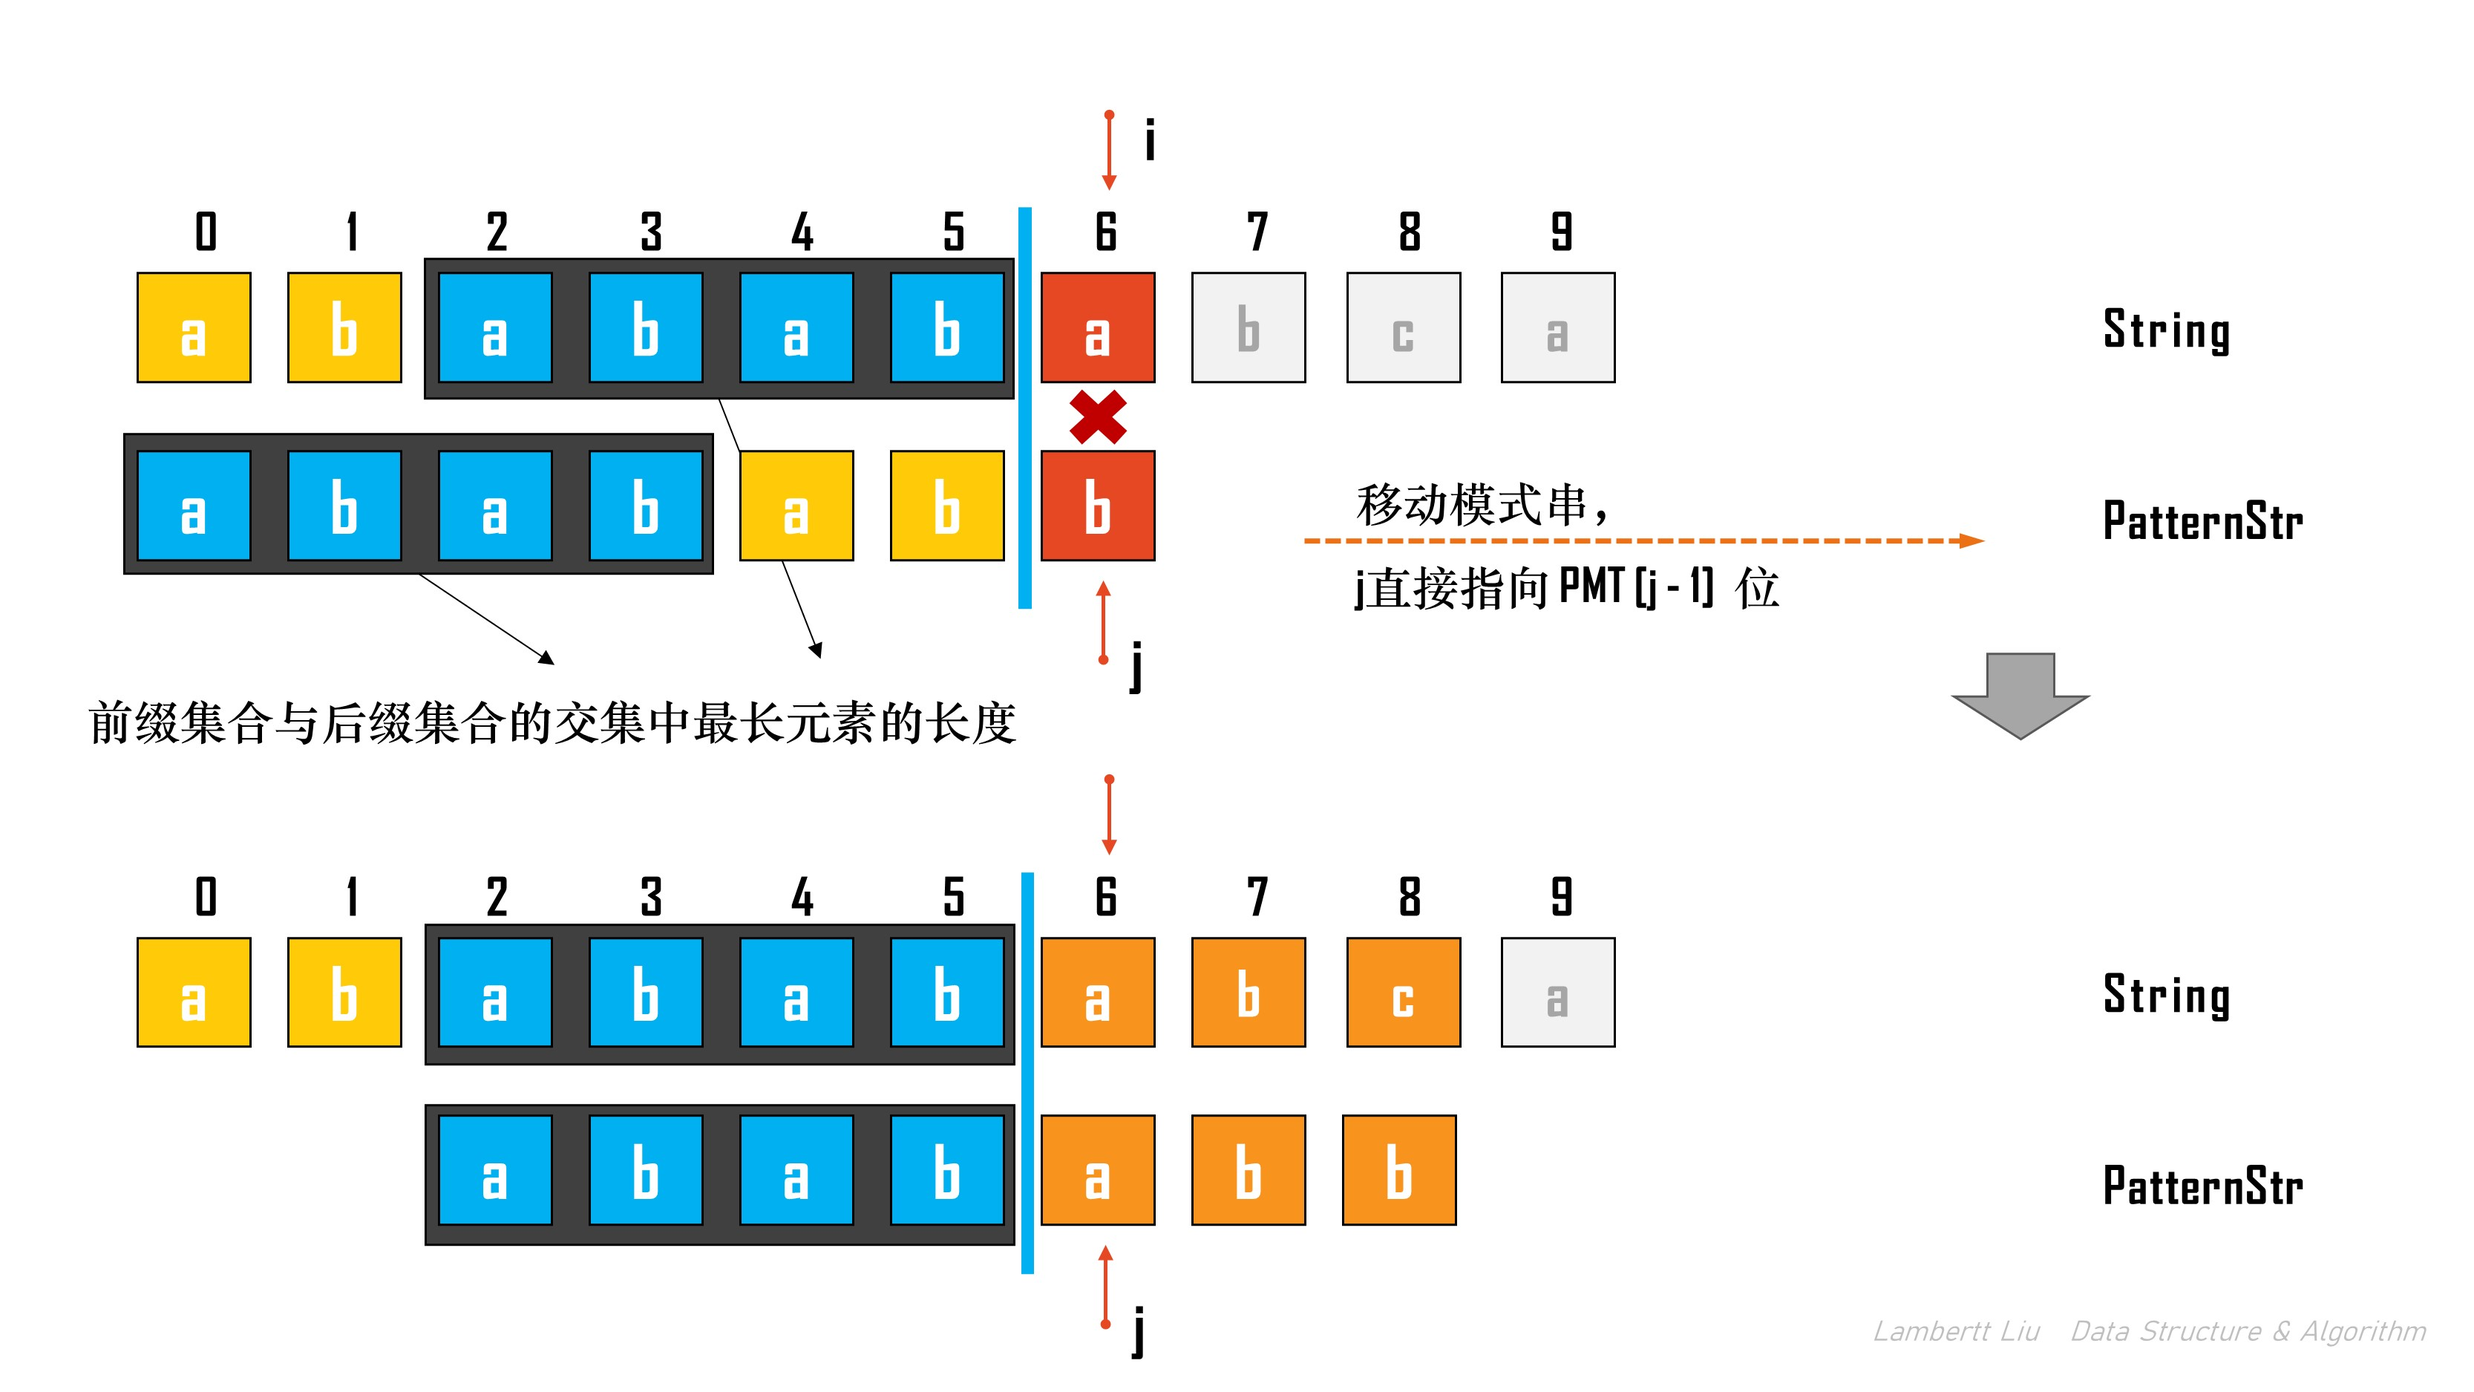
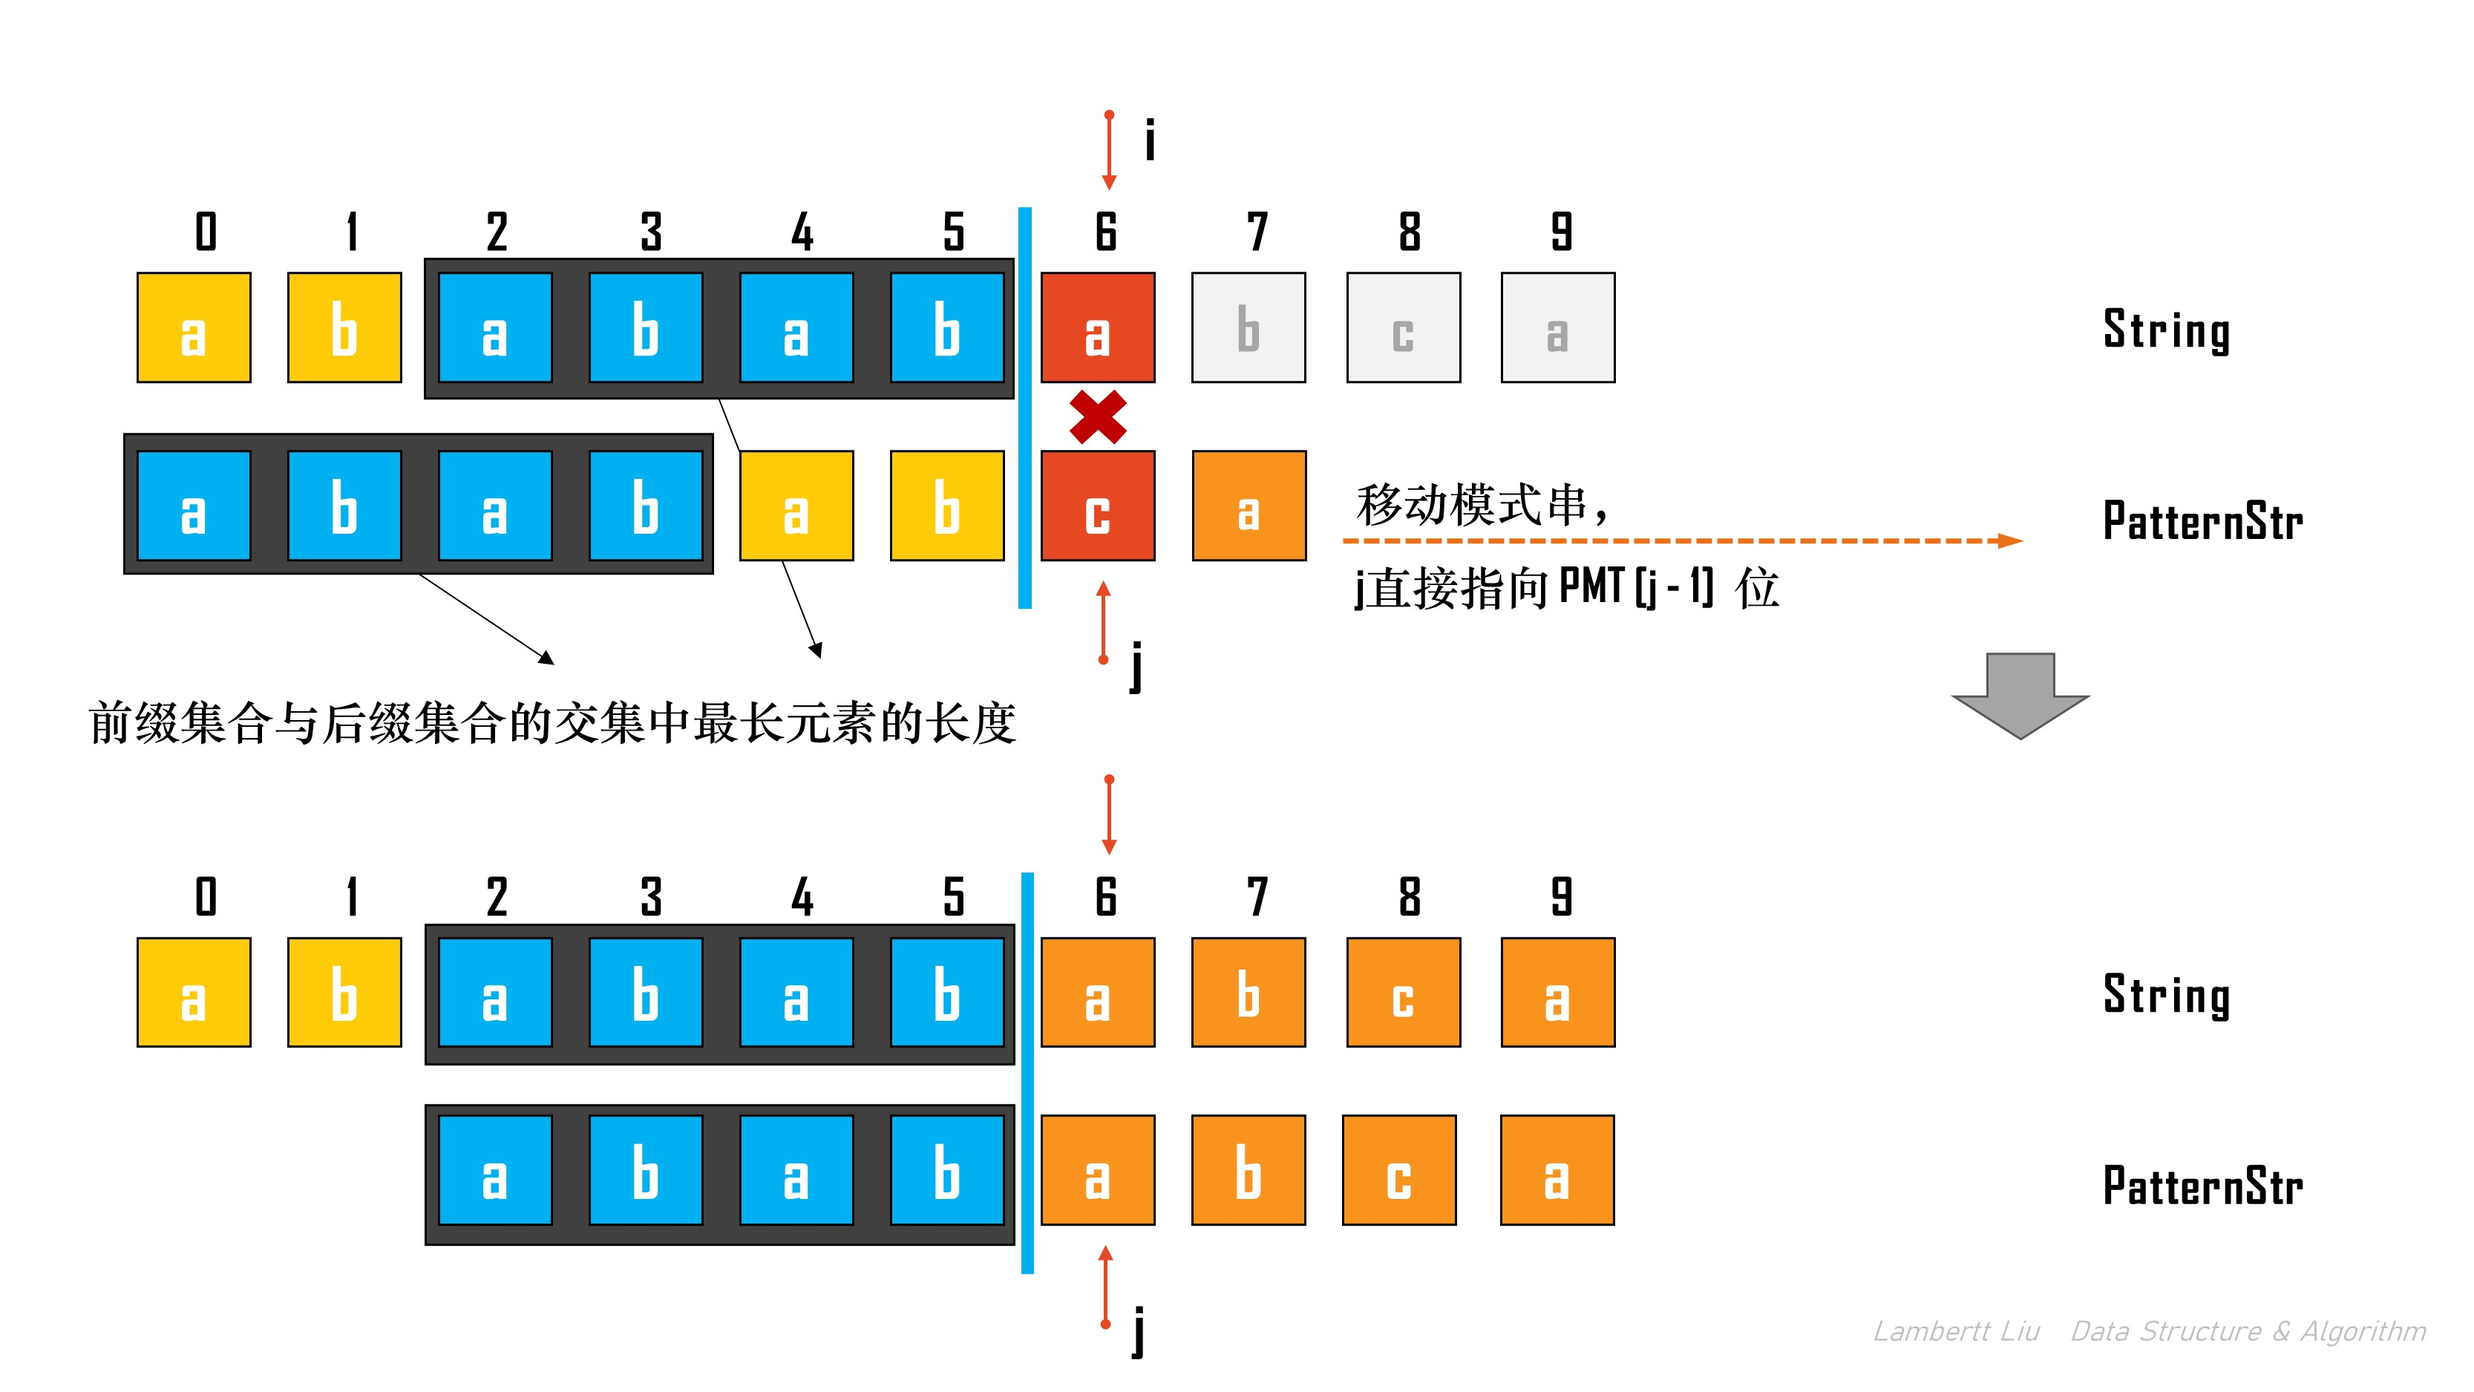
【修改说明】添加字符串模式匹配代码

Changed region(s): [[0.5929, 0.6496, 0.6553, 0.8971], [0.468, 0.3093, 0.5305, 0.4021], [0.7801, 0.3712, 0.8113, 0.4021]]

diff --git a/【DSA】数据结构与算法（C语言版本）/src/string/pattern_matching_kmp.c b/【DSA】数据结构与算法（C语言版本）/src/string/pattern_matching_kmp.c
@@ -1,0 +1,72 @@
+#include <stdio.h>
+#include <string.h>
+
+int next[8] = {0};
+
+void GetNext(char *pattern, int *next)
+{
+    next[0] = -1;
+    int i = 0, j = -1;
+
+    while (i < (int)strlen(pattern))
+    {
+        if (j == -1 || pattern[i] == pattern[j])
+        {
+            ++i;
+            ++j;
+            next[i] = j;
+        }    
+        else
+            j = next[j];
+    }
+}
+
+int Index_KMP(char *main, int mainLen, char *pattern, int patLen)
+{
+    int pStr = 0, pPat = 0;
+    int matchCnt = 0;
+    
+    // 必须满足指针小于字符串长度，否则比较无意义。
+    while (pStr < mainLen && pPat < patLen) {
+        // 如果有字符相等，继续比较后续字符串
+        if (pPat == -1 ||main[pStr] == pattern[pPat]) {
+            ++pStr;
+            ++pPat;  
+        } else {
+            pPat = next[pPat];
+        }
+        matchCnt++;       
+    }
+
+    printf("matching counts = %d\n", matchCnt);         // 11次
+
+    // 匹配时，满足等于strlen
+    if (pPat >= patLen) {
+        return pStr - patLen;
+    } else {
+        return 0;
+    }
+}
+
+
+int main()
+{
+    char mainStr[] = "ababababca";
+    char patternStr[] = "abababca";
+
+    printf("str length of main Str [%s] = %d\n",mainStr, strlen(mainStr));
+    printf("str length of patten Str [%s] = %d\n",patternStr, strlen(patternStr));
+    GetNext(patternStr, next);
+    for (size_t i = 0; i < 8; i++)
+    {
+        printf("next[%d] = %d\n", i, next[i]);
+    }
+    
+    int index = Index_KMP(mainStr,strlen(mainStr), patternStr,strlen(patternStr));
+    
+    /* 预期匹配位置：2 
+    index      0   1   2   3   4   5   6   7   8   9
+    main       a - b - a - b - a - b - a - b - c - a
+    pattern            a - b - a - b - a - b - c - a   */
+    printf("Locate pattern matching :index [%d].\n", index);
+}

diff --git a/【DSA】数据结构与算法（C语言版本）/src/string/pattern_matching_bf.c b/【DSA】数据结构与算法（C语言版本）/src/string/pattern_matching_bf.c
@@ -1,0 +1,52 @@
+#include <stdio.h>
+#include <string.h>
+
+
+int Index_BF(char *main, int mainLen, char *pattern, int patLen)
+{
+    int pStr = 0, pPat = 0;
+    int matchCnt = 0;
+    
+    // 必须满足指针小于字符串长度，否则比较无意义。
+    while (pStr < mainLen && pPat < patLen) {
+        // 如果有字符相等，继续比较后续字符串
+        if (main[pStr] == pattern[pPat]) {
+            ++pStr;
+            ++pPat;  
+        } else {
+            /*  step = pPat - 0 = pPat = pStr - PStrOrigin,
+                pStrOrigin = pStr - pPat
+                pStrNext = pStr - pPat + 1
+            */
+            pStr = pStr - pPat + 1;
+            pPat = 0;   // 失败从0位置开始
+        }
+        matchCnt++;       
+    }
+
+    printf("matching counts = %d\n", matchCnt);     // 16次
+
+    // 匹配时，满足等于strlen
+    if (pPat >= patLen) {
+        return pStr - patLen;
+    } else {
+        return 0;
+    }
+}
+
+int main()
+{
+    char mainStr[] = "ababababca";
+    char patternStr[] = "abababca";
+
+    printf("str length of main Str [%s] = %d\n",mainStr, strlen(mainStr));
+    printf("str length of patten Str [%s] = %d\n",patternStr, strlen(patternStr));
+
+    int index = Index_BF(mainStr,strlen(mainStr), patternStr,strlen(patternStr));
+    
+    /* 预期匹配位置：2 
+    index      0   1   2   3   4   5   6   7   8   9
+    main       a - b - a - b - a - b - a - b - c - a
+    pattern            a - b - a - b - a - b - c - a   */
+    printf("Locate pattern matching :index [%d].\n", index);
+}

diff --git a/README.md b/README.md
@@ -1,6 +1,5 @@
-# CS-Basic-SelfLearning-408
 
-## 文档简介
+# 文档简介
 💡 这是作者本人自学计算机基础课程的学习记录，主要包含计算机基础四大件，即大家常说的“408”。  
 🚩 学习过程开启于2022年9月初，中间断断续续，一直持续更新记录。  
 ✅ 可以为自学计算机课程者，提供一份学习路径参考。
@@ -23,9 +22,9 @@
 
 -------------------------------------------------------------------
 
-## 数据结构和算法 DataStructure & Algorithm (C语言实现) 
+# 数据结构和算法 DataStructure & Algorithm (C语言实现) 
 
-数据结构和算法，是计算机入门的基础的重中之重，是在完成一门编程语言（例如C语言）后可以掌握的基础课程。由于C语言是一门语法稍微简单，并且多数使用作为编程入门的语言。因此，会作为数据结构和算法实现的语言之一。
+数据结构和算法，是计算机入门的基础的重中之重，是在完成一门编程语言（例如C语言）后可以掌握的基础课程。由于C语言是一门语法稍微简单，并且多数使用作为编程入门的语言。因此，本内容采用C语言作为数据结构和算法实现的语言。
 
 **前置需求**：
 - C语言中基本数据类型、表达式、变量；
@@ -55,10 +54,10 @@
 - [ ] [18 图与图的存储方式](【DSA】数据结构与算法（C语言版本）/18%20图与图的存储方式.md)
 - [ ] [19 图的基本操作](【DSA】数据结构与算法（C语言版本）/19%20图的基本操作.md)
 - [ ] [20 图的最短路径问题](【DSA】数据结构与算法（C语言版本）/20%20图的最短路径问题.md)
-- [ ] [21 拓扑排序、关键路径](【DSA】数据结构与算法（C语言版本）/21%20拓扑排序、关键路径.md)
+- [ ] [21 图的拓扑排序、关键路径](【DSA】数据结构与算法（C语言版本）/21%20图的拓扑排序、关键路径.md)
 - [ ] [22 顺序查找、二分查找](【DSA】数据结构与算法（C语言版本）/22%20顺序查找、二分查找.md)
-- [ ] [23 分块查找、散列查找](【DSA】数据结构与算法（C语言版本）/23%20分块查找、散列查找.md)
-- [ ] [24 uthash库的哈希实现](【DSA】数据结构与算法（C语言版本）/24%20uthash库的哈希实现.md)
+- [ ] [23 分块查找、散列查找（哈希查找）](【DSA】数据结构与算法（C语言版本）/23%20分块查找、散列查找（哈希查找）.md)
+- [ ] [24 C语言的哈希实现 uthash库](【DSA】数据结构与算法（C语言版本）/24%20C语言的哈希实现%20uthash库.md)
 - [ ] [25 插入排序、希尔排序](【DSA】数据结构与算法（C语言版本）/25%20插入排序、希尔排序.md)
 - [ ] [26 快速排序、简单选择排序](【DSA】数据结构与算法（C语言版本）/26%20快速排序、简单选择排序.md)
 - [ ] [27 冒泡排序](【DSA】数据结构与算法（C语言版本）/27%20冒泡排序.md)
@@ -67,9 +66,10 @@
 - [ ] [30 外部排序、败者树](【DSA】数据结构与算法（C语言版本）/30%20外部排序、败者树.md)
 
 
-🔗课程链接：[数据结构_王道考研_哔哩哔哩_bilibili](https://www.bilibili.com/video/BV1b7411N798?p=2&vd_source=a7f0d42b9cbd9285a1aa3d740ec1b3af)
-
-## 操作系统 Operating System
+🔗课程链接：[数据结构_王道_哔哩哔哩_bilibili](https://www.bilibili.com/video/BV1b7411N798?p=2&vd_source=a7f0d42b9cbd9285a1aa3d740ec1b3af)
+ 
+# 操作系统 Operating System
+**操作系统是**控制管理计算机系统的硬软件，分配调度资源的**系统软件**，向上为上层软件提供接口，向下控制管理系统资源，是整个应用软件层和硬件层的中间过渡。操作系统课程分为四个部分：进程管理、内存管理、文件管理、I/O管理。
 
 **具体章节**：
 - [操作系统索引](【OS】操作系统/操作系统索引.md)
@@ -81,7 +81,30 @@
 - [ ] [07 文件管理](【OS】操作系统/07%20文件管理.md)
 - [ ] [08 IO 管理](【OS】操作系统/08%20IO%20管理.md)
 
+🔗课程链接：[操作系统_王道 哔哩哔哩_bilibili](https://www.bilibili.com/video/BV1YE411D7nH/?spm_id_from=333.337.search-card.all.click&vd_source=a7f0d42b9cbd9285a1aa3d740ec1b3af)
+
 -------------------------------------------------------------------
+
+
+# 计算机网络 Computer Network
+
+具体章节：
+
+
+🔗课程链接：
+- [计算机网络微课堂_湖科大教书匠_哔哩哔哩_bilibili](https://www.bilibili.com/video/BV1c4411d7jb/?spm_id_from=333.337.search-card.all.click&vd_source=a7f0d42b9cbd9285a1aa3d740ec1b3af)
+- [计算机网络_王道_哔哩哔哩_bilibili](https://www.bilibili.com/video/BV19E411D78Q/?spm_id_from=333.337.search-card.all.click)
+
+-------------------------------------------------------------------
+
+# 计算机组成原理 Principles of Computer Composition
+
+具体章节：
+
+🔗课程链接：
+
+-------------------------------------------------------------------
+
 
 
 **作者简介**：  

diff --git a/【DSA】数据结构与算法（C语言版本）/数据结构索引.md b/【DSA】数据结构与算法（C语言版本）/数据结构索引.md
@@ -29,15 +29,24 @@
 
 # Ch06. 图
 [18 图与图的存储方式](18%20图与图的存储方式.md)  
+[19 图的基本操作](19%20图的基本操作.md)
+[20 图的最短路径问题](20%20图的最短路径问题.md)
+[21 图的拓扑排序、关键路径](21%20图的拓扑排序、关键路径.md)
 
 # Ch07. 查找
 [22 顺序查找、二分查找](22%20顺序查找、二分查找.md)  
-[24 uthash库的哈希实现](24%20uthash库的哈希实现.md)  
+[23 分块查找、散列查找（哈希查找）](23%20分块查找、散列查找（哈希查找）.md)
+[24 C语言的哈希实现 uthash库](24%20C语言的哈希实现%20uthash库.md)  
 
 # Ch08. 排序
 [25 插入排序、希尔排序](25%20插入排序、希尔排序.md)  
 [26 快速排序、简单选择排序](26%20快速排序、简单选择排序.md)
+[27 冒泡排序](27%20冒泡排序.md)
+[28 堆与堆排序](28%20堆与堆排序.md)
+[29 归并排序、基数排序](29%20归并排序、基数排序.md)
+[30 外部排序、败者树](30%20外部排序、败者树.md)
 
 # Ch09.常用算法
-[XX 常用算法 - 回溯](XX%20常用算法%20-%20回溯.md)  
+[XX 常用算法 - 回溯法](XX%20常用算法%20-%20回溯法.md)  
+[XX 常用算法 - 动态规划](XX%20常用算法%20-%20动态规划.md)
 

diff --git a/【DSA】数据结构与算法（C语言版本）/15 二叉排序树BST与平衡二叉树AVL.md b/【DSA】数据结构与算法（C语言版本）/15 二叉排序树BST与平衡二叉树AVL.md
@@ -1,4 +1,7 @@
 #数据结构 #算法  #C 
+
+【预先知识】  
+本章虽然属于树的章节内容，但是内容较难，并且涉及到了查找和排序的知识，因此，建议先学习完毕 **查找、排序** 章节后，再阅读本章。
 # [55] 二叉排序树
 二叉排序树，又称二叉查找树、二叉搜索树（BST，Binary Search Tree），符合这样的特点：一棵是空二叉树，或者是具有如下性质的二叉树：
 1. 左子树上所有结点的关键字均小于根结点的关键字；
@@ -139,7 +142,7 @@ void CreateBST(BSTree &T, int array[], int n)
 
 ![](img/06_树2/35%20二叉排序树查找失败ASL.jpg)
 
-# [54] 平衡二叉树
+# [56] 平衡二叉树
 平衡二叉树（Balanced Binary Tree），简称平衡树（AVL树），由G. M. Adelson-Velsky和E. M. Landis 于1962年发明。  
 AVL树上任一结点的左子树和右子树的高度之差不超过1。即：
 

diff --git a/【DSA】数据结构与算法（C语言版本）/16 红黑树.md b/【DSA】数据结构与算法（C语言版本）/16 红黑树.md
@@ -1,8 +1,8 @@
 #数据结构 #算法  #C 
 
-# [71] 红黑树的定义和性质
+# [57] 红黑树的定义和性质
 
-# [72] 红黑树的插入
+# [58] 红黑树的插入
 
-# [73] 红黑树的删除
+# [59] 红黑树的删除
 

diff --git a/【DSA】数据结构与算法（C语言版本）/09 串的模式匹配 -- BF与KMP.md b/【DSA】数据结构与算法（C语言版本）/09 串的模式匹配 -- BF与KMP.md
@@ -300,7 +300,7 @@ int KMP(char * t, char * p)
 
 程序实现：
 ```c
-void getNext(char * p, int * next)
+void getNext(char *p, int *next)
 {
     next[0] = -1;
     int i = 0, j = -1;

diff --git a/【DSA】数据结构与算法（C语言版本）/17 B树、B+树.md b/【DSA】数据结构与算法（C语言版本）/17 B树、B+树.md
@@ -1,6 +1,6 @@
 #数据结构 #算法 #C 
-# [72]     B树的插入删除
+# [60]     B树的插入删除
 
-# [73]     B树
+# [61]     B树
 
-# [71]     B+树
+# [63]     B+树

diff --git a/【DSA】数据结构与算法（C语言版本）/22 顺序查找、二分查找.md b/【DSA】数据结构与算法（C语言版本）/22 顺序查找、二分查找.md
@@ -1,4 +1,4 @@
-#数据结构 #算法
+#数据结构 #算法 #C
 
 # [69] 基本概念
 查找 ，在数据集合中寻找满⾜某种条件的数据元素的过程称为查找

diff --git a/【DSA】数据结构与算法（C语言版本）/23 分块查找、散列查找（哈希查找）.md b/【DSA】数据结构与算法（C语言版本）/23 分块查找、散列查找（哈希查找）.md
@@ -1,0 +1,1 @@
+#数据结构 #算法 #C 
